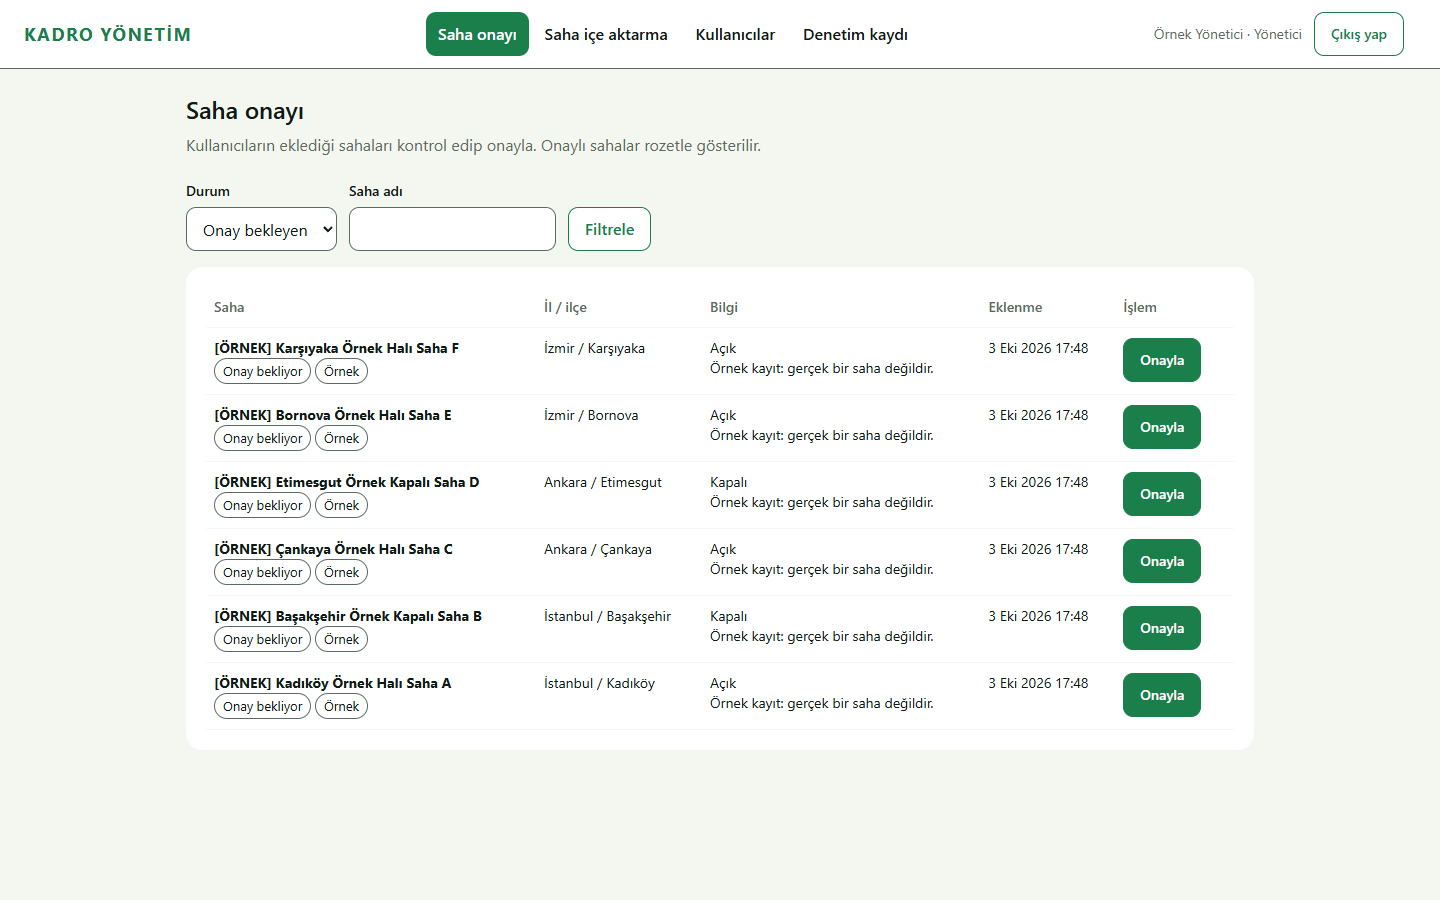
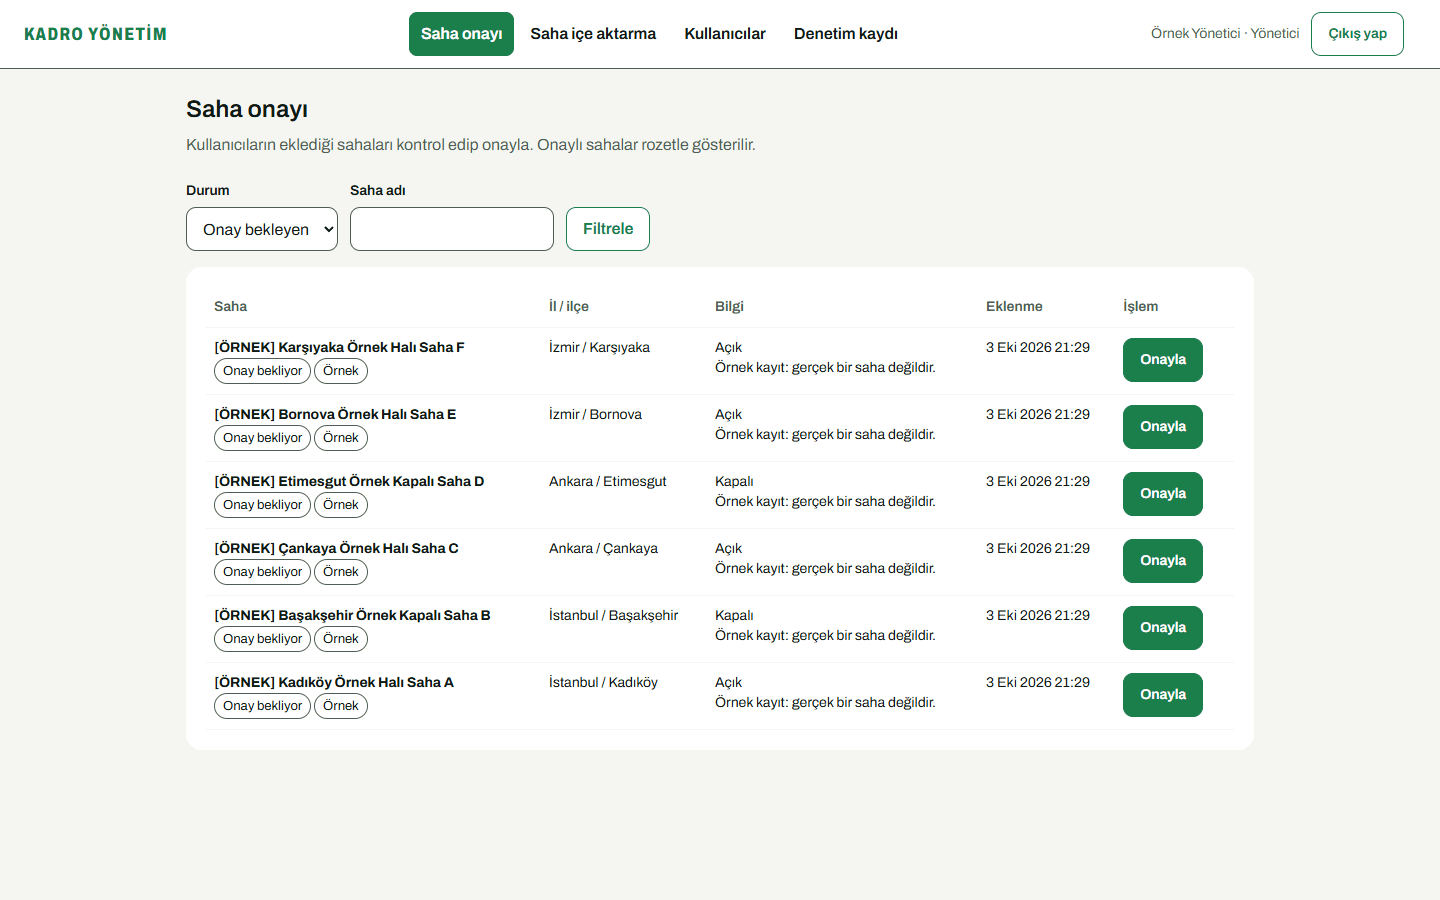
docs(docs): retake the web screenshots in both colour schemes

diff --git a/kadro/docs/screenshots/web-README.md b/kadro/docs/screenshots/web-README.md
@@ -7,30 +7,37 @@ staff account created by the script at run time. No real person, venue or team a
 
 - Desktop: 1440x900 viewport, device scale factor 1.
 - Mobile: 390x844 viewport, device scale factor 1, touch.
+- Every public page is captured in both colour schemes: the script sets the `kadro-theme` cookie
+  to `light` or `dark`, the value the site's Sistem / Açık / Koyu toggle stores. File names end
+  in `-light` or `-dark`.
+- The staff panel has one scheme (always light) and the Open Graph card is a fixed light raster,
+  so those files have no suffix.
 - Full-page shots are cut at 1400 px height. Files are 256-colour palette PNGs.
 
 ## Files (`web/`)
 
-| File                             | Page                                         | Viewport | Data                                                                    |
-| -------------------------------- | -------------------------------------------- | -------- | ----------------------------------------------------------------------- |
-| `web-01-home.png`                | `/` home                                     | desktop  | static copy                                                             |
-| `web-02-features.png`            | `/ozellikler` features                       | desktop  | static copy                                                             |
-| `web-03-blog.png`                | `/blog` index                                | desktop  | blog articles from `content/blog`                                       |
-| `web-04-blog-article.png`        | `/blog/kadro-nasil-kurulur`                  | desktop  | blog article                                                            |
-| `web-05-venue.png`               | `/saha/ornek-kadikoy-hali-saha-a` venue page | desktop  | sample data: `[ÖRNEK]` venue with the visible sample notice             |
-| `web-06-district.png`            | `/eksik-var/istanbul/kadikoy` district page  | desktop  | sample data: two open calls of a sample team, one sample venue          |
-| `web-07-faq.png`                 | `/sss` FAQ                                   | desktop  | static copy                                                             |
-| `web-08-invite.png`              | `/mac/<code>` team invite landing            | desktop  | sample data: invite of the sample team (code created at run time)       |
-| `web-09-privacy.png`             | `/gizlilik` privacy page                     | desktop  | sample text, shows the sample notice                                    |
-| `web-10-admin-login.png`         | `/admin/giris` staff sign-in                 | desktop  | empty form                                                              |
-| `web-11-admin-venues.png`        | `/admin/sahalar` venue verification queue    | desktop  | sample data: pending `[ÖRNEK]` venues, after password + TOTP sign-in    |
-| `web-12-admin-audit.png`         | `/admin/denetim` audit log                   | desktop  | sample data: the step-up and one venue verification by the sample admin |
-| `web-13-og-card.png`             | `/og/kadro.png` Open Graph card (1200x630)   | n/a      | the image as served                                                     |
-| `web-mobile-01-home.png`         | `/` home                                     | mobile   | static copy                                                             |
-| `web-mobile-02-blog-article.png` | `/blog/kadro-nasil-kurulur`                  | mobile   | blog article                                                            |
-| `web-mobile-03-venue.png`        | `/saha/ornek-kadikoy-hali-saha-a` venue page | mobile   | sample data                                                             |
-| `web-mobile-04-district.png`     | `/eksik-var/istanbul/kadikoy` district page  | mobile   | sample data                                                             |
-| `web-mobile-05-invite.png`       | `/mac/<code>` team invite landing            | mobile   | sample data                                                             |
+Each `<name>` row stands for `<name>-light.png` and `<name>-dark.png`.
+
+| File                         | Page                                         | Viewport | Data                                                                    |
+| ---------------------------- | -------------------------------------------- | -------- | ----------------------------------------------------------------------- |
+| `web-01-home`                | `/` home                                     | desktop  | static copy, `[ÖRNEK]` squad sheet                                      |
+| `web-02-features`            | `/ozellikler` features                       | desktop  | static copy                                                             |
+| `web-03-blog`                | `/blog` index                                | desktop  | blog articles from `content/blog`                                       |
+| `web-04-blog-article`        | `/blog/kadro-nasil-kurulur`                  | desktop  | blog article                                                            |
+| `web-05-venue`               | `/saha/ornek-kadikoy-hali-saha-a` venue page | desktop  | sample data: `[ÖRNEK]` venue with the visible sample notice             |
+| `web-06-district`            | `/eksik-var/istanbul/kadikoy` district page  | desktop  | sample data: two open calls of a sample team, one sample venue          |
+| `web-07-faq`                 | `/sss` FAQ                                   | desktop  | static copy                                                             |
+| `web-08-invite`              | `/mac/<code>` team invite landing            | desktop  | sample data: invite of the sample team (code created at run time)       |
+| `web-09-privacy`             | `/gizlilik` privacy page                     | desktop  | sample text, shows the sample notice                                    |
+| `web-mobile-01-home`         | `/` home                                     | mobile   | static copy, `[ÖRNEK]` squad sheet                                      |
+| `web-mobile-02-blog-article` | `/blog/kadro-nasil-kurulur`                  | mobile   | blog article                                                            |
+| `web-mobile-03-venue`        | `/saha/ornek-kadikoy-hali-saha-a` venue page | mobile   | sample data                                                             |
+| `web-mobile-04-district`     | `/eksik-var/istanbul/kadikoy` district page  | mobile   | sample data                                                             |
+| `web-mobile-05-invite`       | `/mac/<code>` team invite landing            | mobile   | sample data                                                             |
+| `web-10-admin-login.png`     | `/admin/giris` staff sign-in                 | desktop  | empty form                                                              |
+| `web-11-admin-venues.png`    | `/admin/sahalar` venue verification queue    | desktop  | sample data: pending `[ÖRNEK]` venues, after password + TOTP sign-in    |
+| `web-12-admin-audit.png`     | `/admin/denetim` audit log                   | desktop  | sample data: the step-up and one venue verification by the sample admin |
+| `web-13-og-card.png`         | `/og/kadro.png` Open Graph card (1200x630)   | n/a      | the image as served, with the `ÖRNEK` squad sheet                       |
 
 ## Regenerate
 
@@ -45,8 +52,8 @@ node ops/take-web-screenshots.mjs --python <python with Pillow>
 [`ops/take-web-screenshots.mjs`](../../ops/take-web-screenshots.mjs) starts a disposable PostGIS
 container with a unique name, migrates and seeds it, adds the sample rows, serves the build with
 `next start` on a free port (local configuration, secrets created at run time and never written
-to disk), captures the pages with the installed `@playwright/test` (`channel: 'chrome'`), stops the
-server and removes the container by its exact name. `--python` points at a Python interpreter
-with Pillow and re-encodes the files as palette PNGs; without it the files stay as captured.
-`--out <dir>` writes somewhere else than `docs/screenshots/web`. Dates in the open calls and the
-audit log follow the day of the run.
+to disk), captures the pages with the installed `@playwright/test` (`channel: 'chrome'`) once per
+colour scheme, stops the server and removes the container by its exact name. `--python` points at
+a Python interpreter with Pillow and re-encodes the files of the run as palette PNGs; without it
+the files stay as captured. `--out <dir>` writes somewhere else than `docs/screenshots/web`.
+Dates in the open calls and the audit log follow the day of the run.
